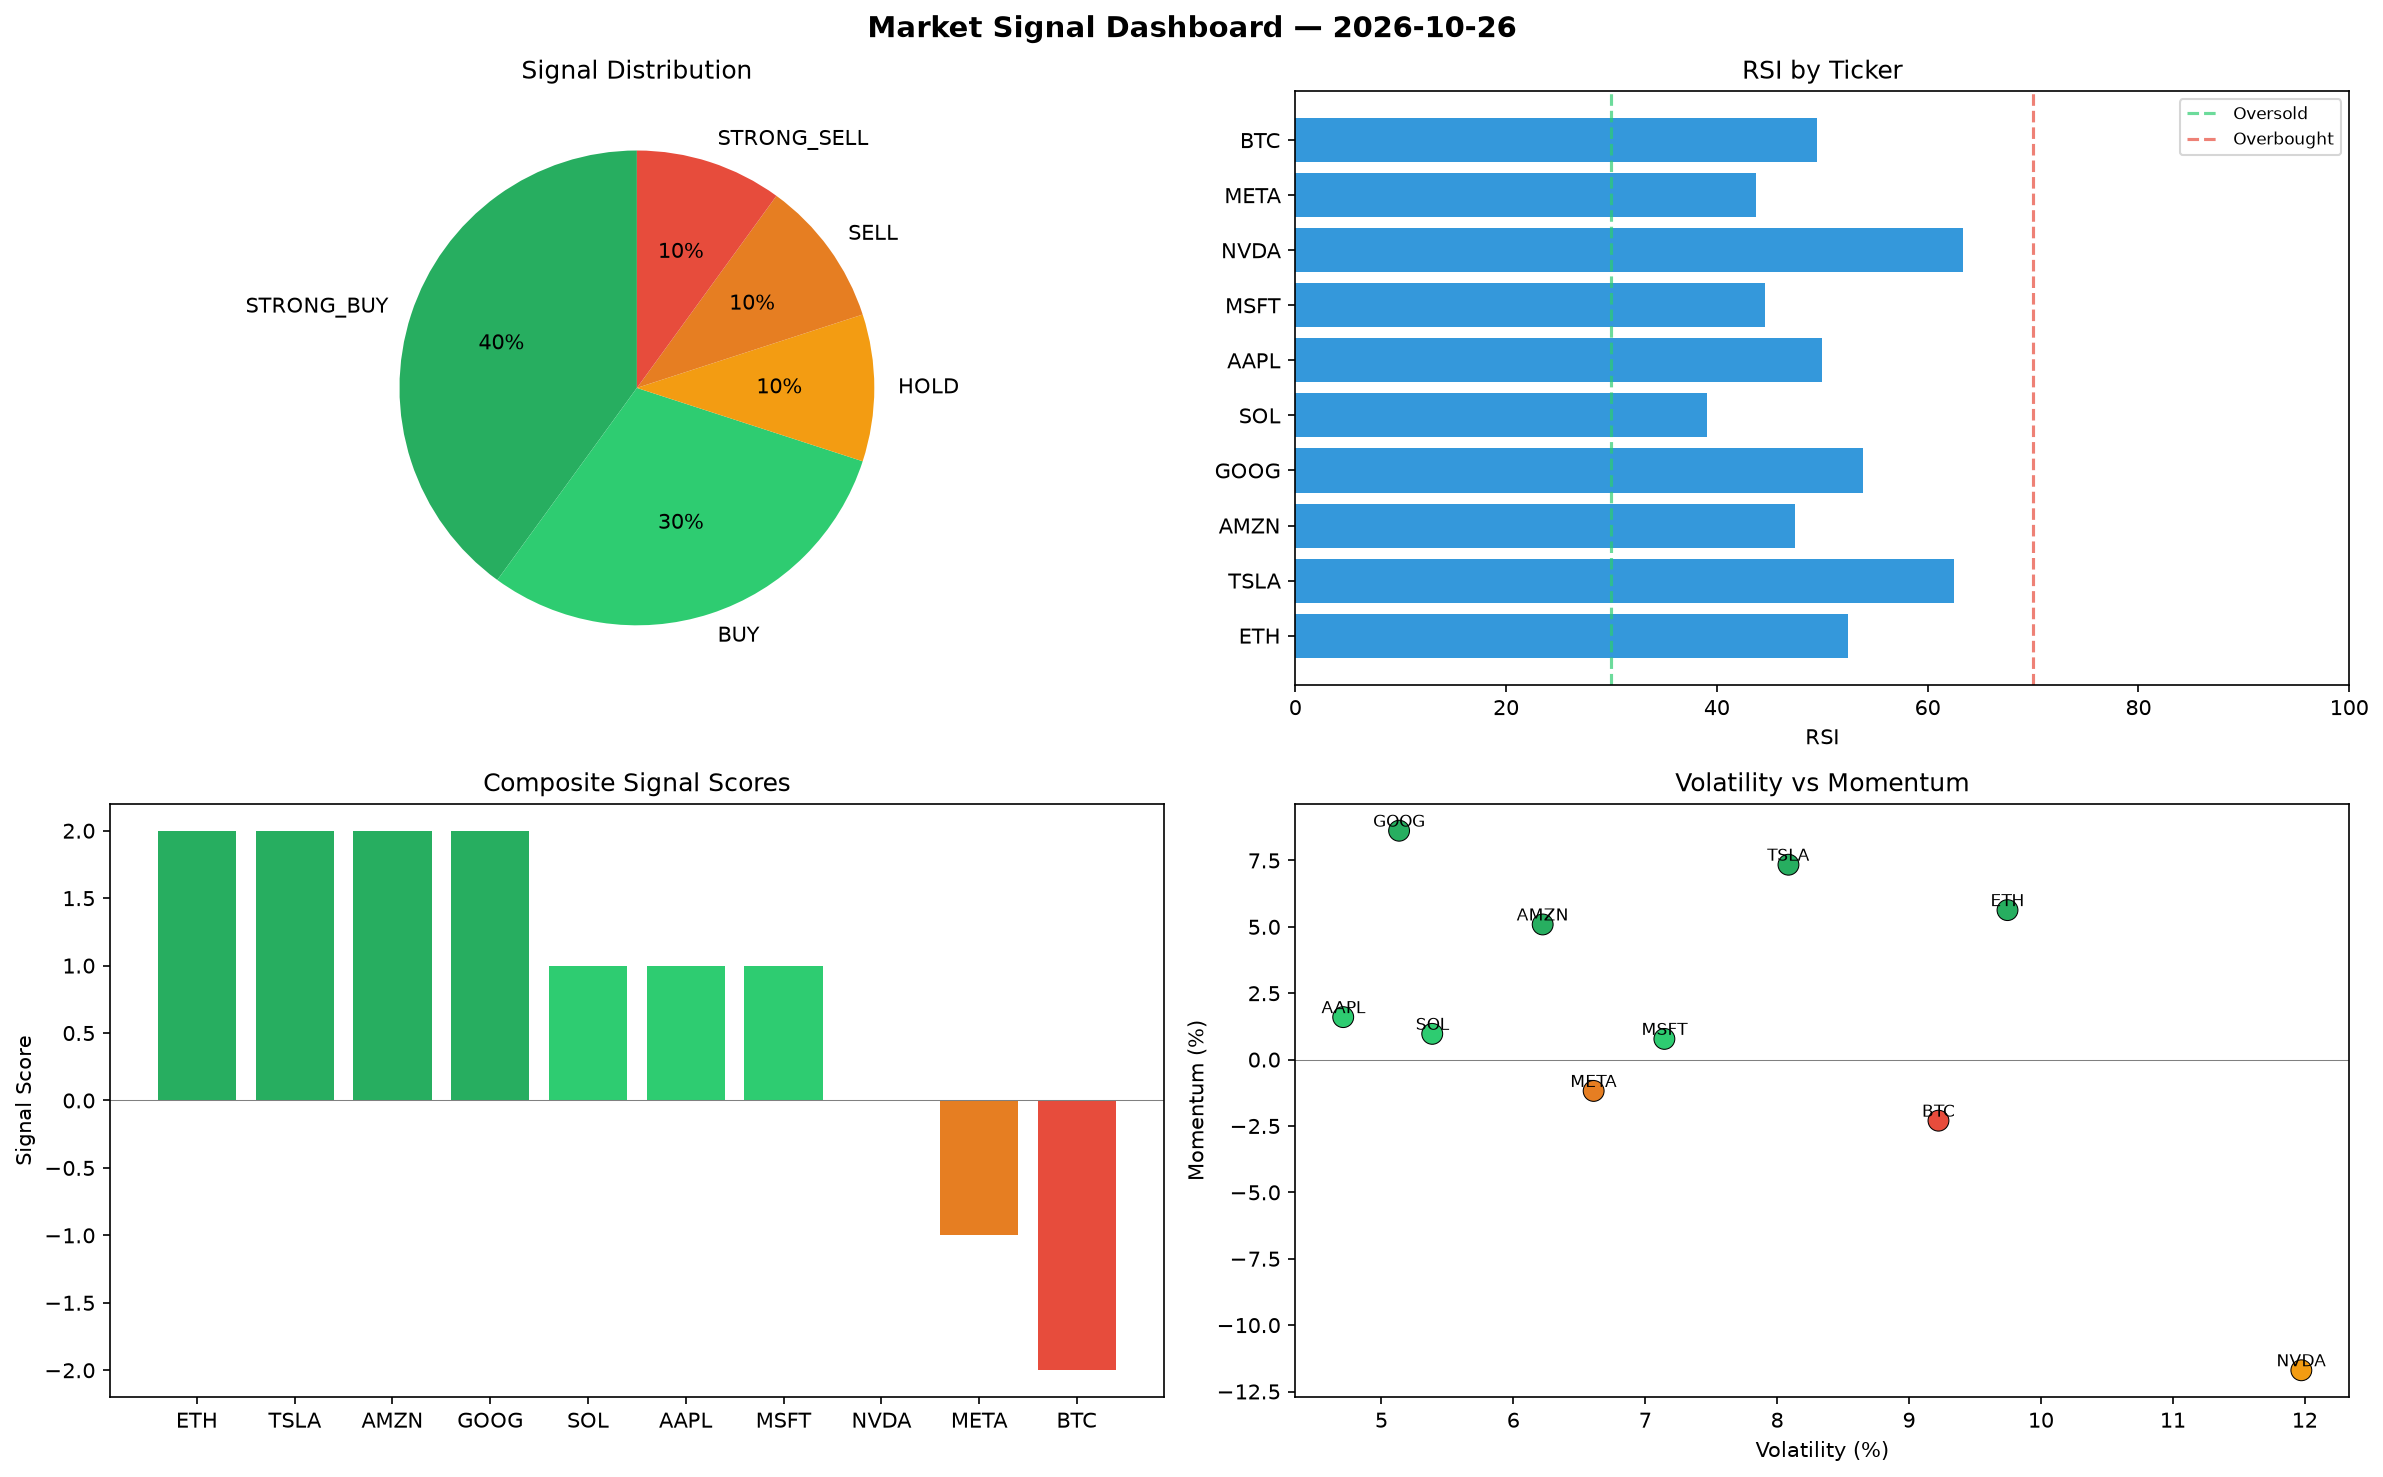
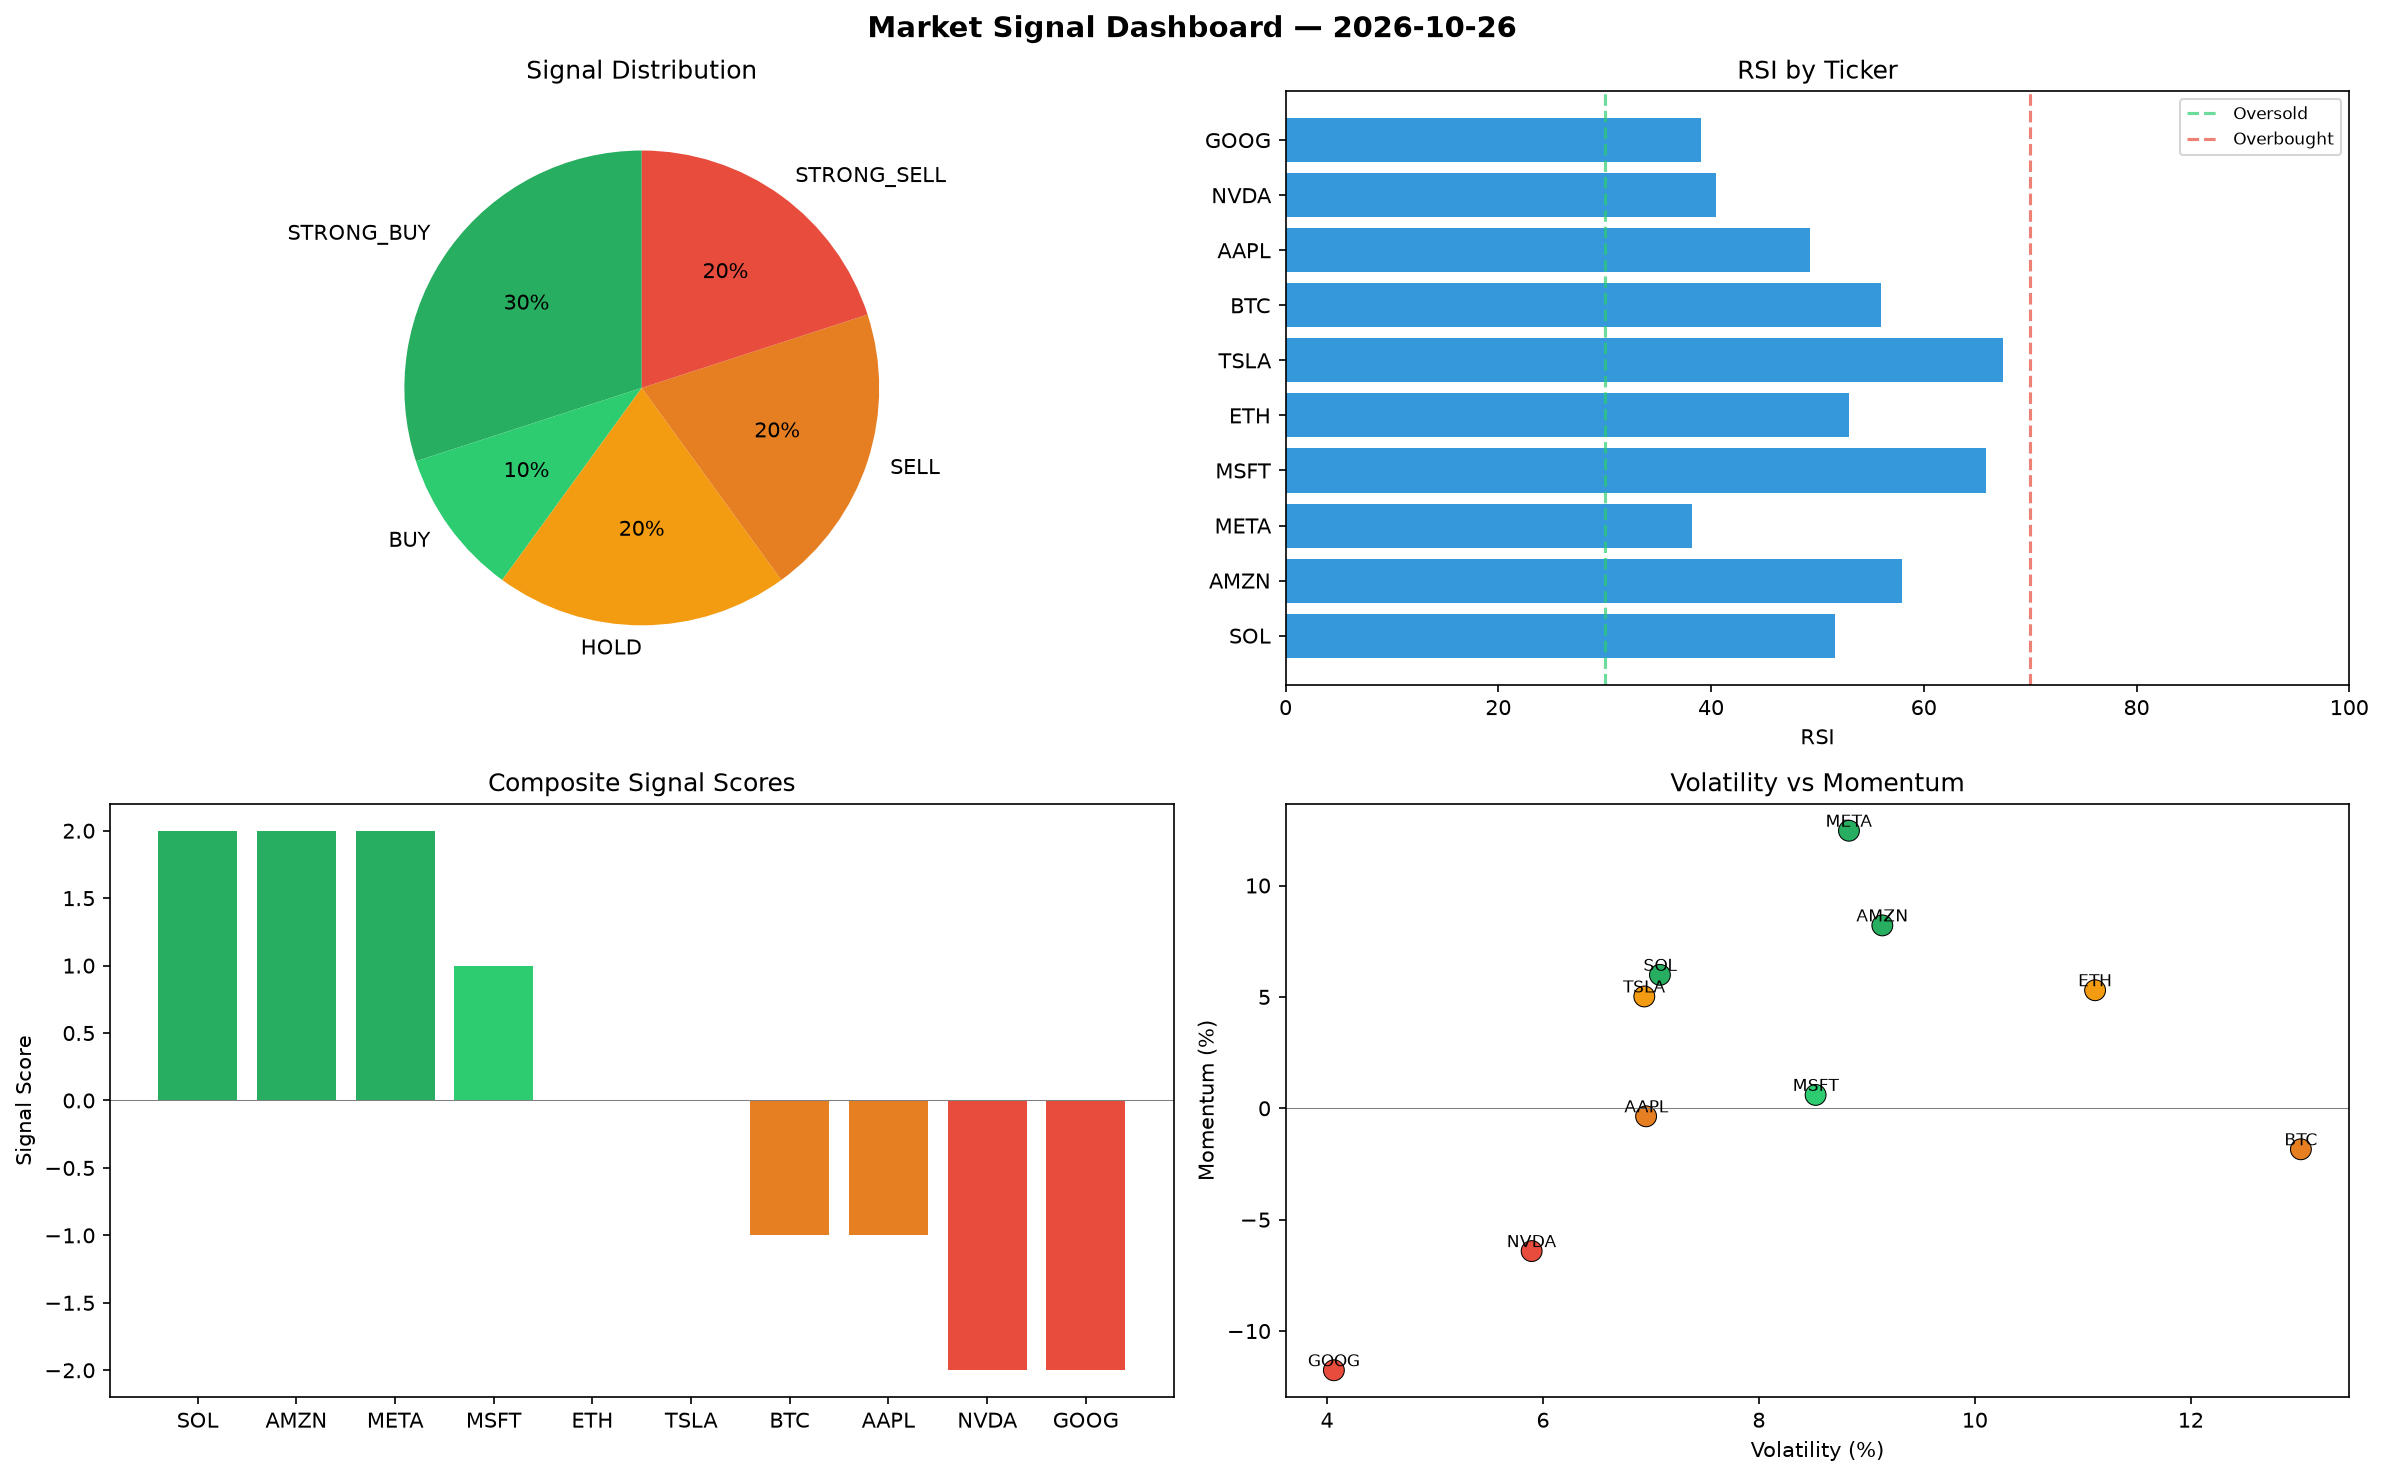
automated-bots: market signals 2026-10-26T15:20

diff --git a/logs/2026-10-26.md b/logs/2026-10-26.md
@@ -1,6 +1,6 @@
 # Market Signal Report — 2026-10-26
 
-**Run ID:** `1761859c31` | **Buy:** 7 | **Sell:** 2 | **Hold:** 1
+**Run ID:** `2aff9c7012` | **Buy:** 4 | **Sell:** 4 | **Hold:** 2
 
 ![Dashboard](2026-10-26_dashboard.png)
 
@@ -8,28 +8,28 @@
 
 | Ticker | Price | Signal | Score | RSI | Momentum | Confidence |
 |--------|-------|--------|-------|-----|----------|------------|
-| ETH | $3773.18 | **STRONG_BUY** | 2 | 52.48 | 0.0563 | 0.5 |
-| TSLA | $4669.74 | **STRONG_BUY** | 2 | 62.47 | 0.0734 | 0.5 |
-| AMZN | $1962.85 | **STRONG_BUY** | 2 | 47.45 | 0.0509 | 0.5 |
-| GOOG | $1431.12 | **STRONG_BUY** | 2 | 53.82 | 0.0862 | 0.5 |
-| SOL | $2990.05 | **BUY** | 1 | 39.07 | 0.0097 | 0.25 |
-| AAPL | $4368.11 | **BUY** | 1 | 50.0 | 0.016 | 0.25 |
-| MSFT | $2331.12 | **BUY** | 1 | 44.58 | 0.0078 | 0.25 |
-| NVDA | $1384.29 | **HOLD** | 0 | 63.35 | -0.117 | 0.0 |
-| META | $4624.36 | **SELL** | -1 | 43.69 | -0.0118 | 0.25 |
-| BTC | $3458.01 | **STRONG_SELL** | -2 | 49.47 | -0.023 | 0.5 |
+| SOL | $1590.07 | **STRONG_BUY** | 2 | 51.69 | 0.0599 | 0.5 |
+| AMZN | $408.69 | **STRONG_BUY** | 2 | 57.96 | 0.0821 | 0.5 |
+| META | $3231.07 | **STRONG_BUY** | 2 | 38.23 | 0.1246 | 0.5 |
+| MSFT | $4220.06 | **BUY** | 1 | 65.82 | 0.006 | 0.25 |
+| ETH | $2378.83 | **HOLD** | 0 | 52.94 | 0.053 | 0.0 |
+| TSLA | $4869.07 | **HOLD** | 0 | 67.45 | 0.0502 | 0.0 |
+| BTC | $4212.5 | **SELL** | -1 | 56.0 | -0.0184 | 0.25 |
+| AAPL | $4450.15 | **SELL** | -1 | 49.32 | -0.0036 | 0.25 |
+| NVDA | $1169.7 | **STRONG_SELL** | -2 | 40.45 | -0.0641 | 0.5 |
+| GOOG | $4550.25 | **STRONG_SELL** | -2 | 39.03 | -0.1176 | 0.5 |
 
 ## Delta vs Yesterday
 
 | Ticker | Today | Yesterday | Price Change | Signal Changed |
 |--------|-------|-----------|-------------|----------------|
-| ETH | STRONG_BUY | STRONG_SELL | 📈 217.82% | ⚠ YES |
-| TSLA | STRONG_BUY | STRONG_BUY | 📈 220.53% | — |
-| AMZN | STRONG_BUY | STRONG_SELL | 📈 29.77% | ⚠ YES |
-| GOOG | STRONG_BUY | STRONG_SELL | 📉 -62.24% | ⚠ YES |
-| SOL | BUY | BUY | 📉 -18.84% | — |
-| AAPL | BUY | HOLD | 📉 -6.58% | ⚠ YES |
-| MSFT | BUY | STRONG_BUY | 📉 -30.51% | ⚠ YES |
-| NVDA | HOLD | HOLD | 📉 -68.0% | — |
-| META | SELL | STRONG_BUY | 📈 193.08% | ⚠ YES |
-| BTC | STRONG_SELL | STRONG_SELL | 📈 16.88% | — |
+| SOL | STRONG_BUY | BUY | 📉 -56.84% | ⚠ YES |
+| AMZN | STRONG_BUY | STRONG_SELL | 📉 -72.98% | ⚠ YES |
+| META | STRONG_BUY | STRONG_BUY | 📈 104.78% | — |
+| MSFT | BUY | STRONG_BUY | 📈 25.81% | ⚠ YES |
+| ETH | HOLD | STRONG_SELL | 📈 100.37% | ⚠ YES |
+| TSLA | HOLD | STRONG_BUY | 📈 234.21% | ⚠ YES |
+| BTC | SELL | STRONG_SELL | 📈 42.38% | ⚠ YES |
+| AAPL | SELL | HOLD | 📉 -4.82% | ⚠ YES |
+| NVDA | STRONG_SELL | HOLD | 📉 -72.96% | ⚠ YES |
+| GOOG | STRONG_SELL | STRONG_SELL | 📈 20.07% | — |
